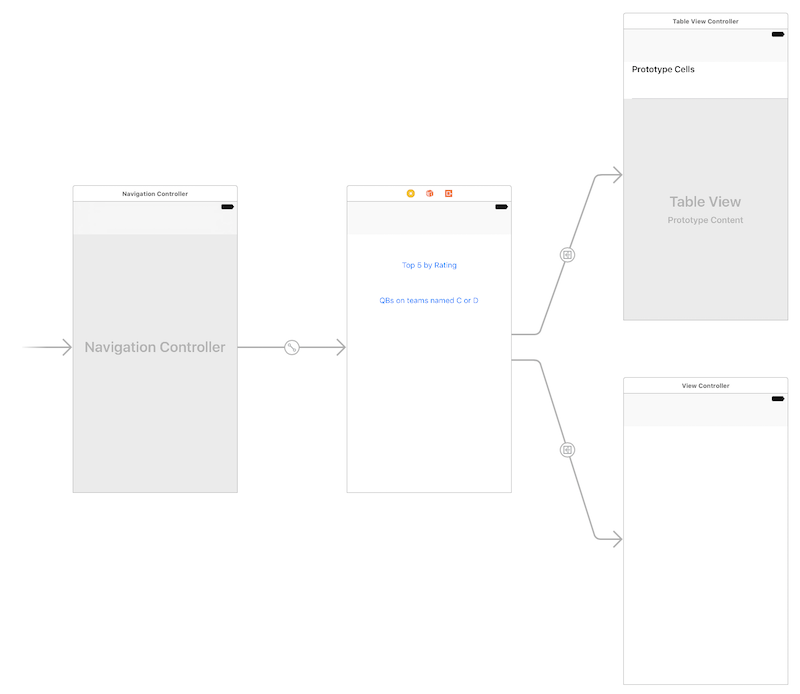
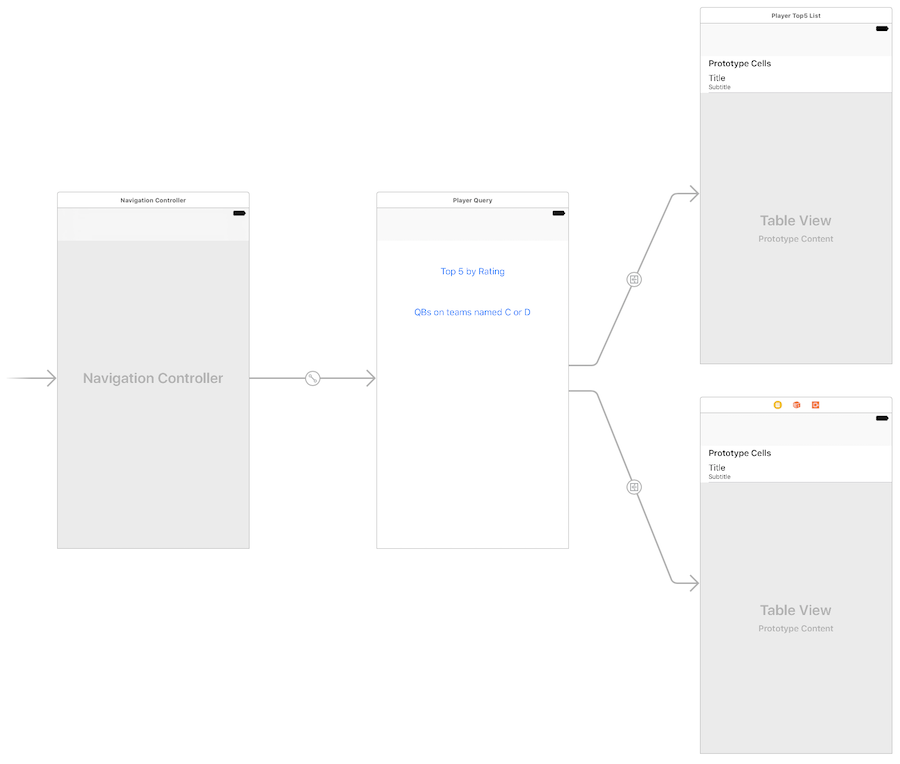
Assignment 7 draft published

diff --git a/assignments/a7-three-small-apps.md b/assignments/a7-three-small-apps.md
@@ -257,7 +257,9 @@ First, run the app in the iOS Simulator, so that you know that it does successfu
 
 #### Task preview
 In the sections that follow, you will perform these tasks:  
-1. (more to come)  
+1. Core Data model and init  
+2. Plan the storyboard  
+3. Add controllers  
 <br>
 
 ### Core Data model and initialization  
